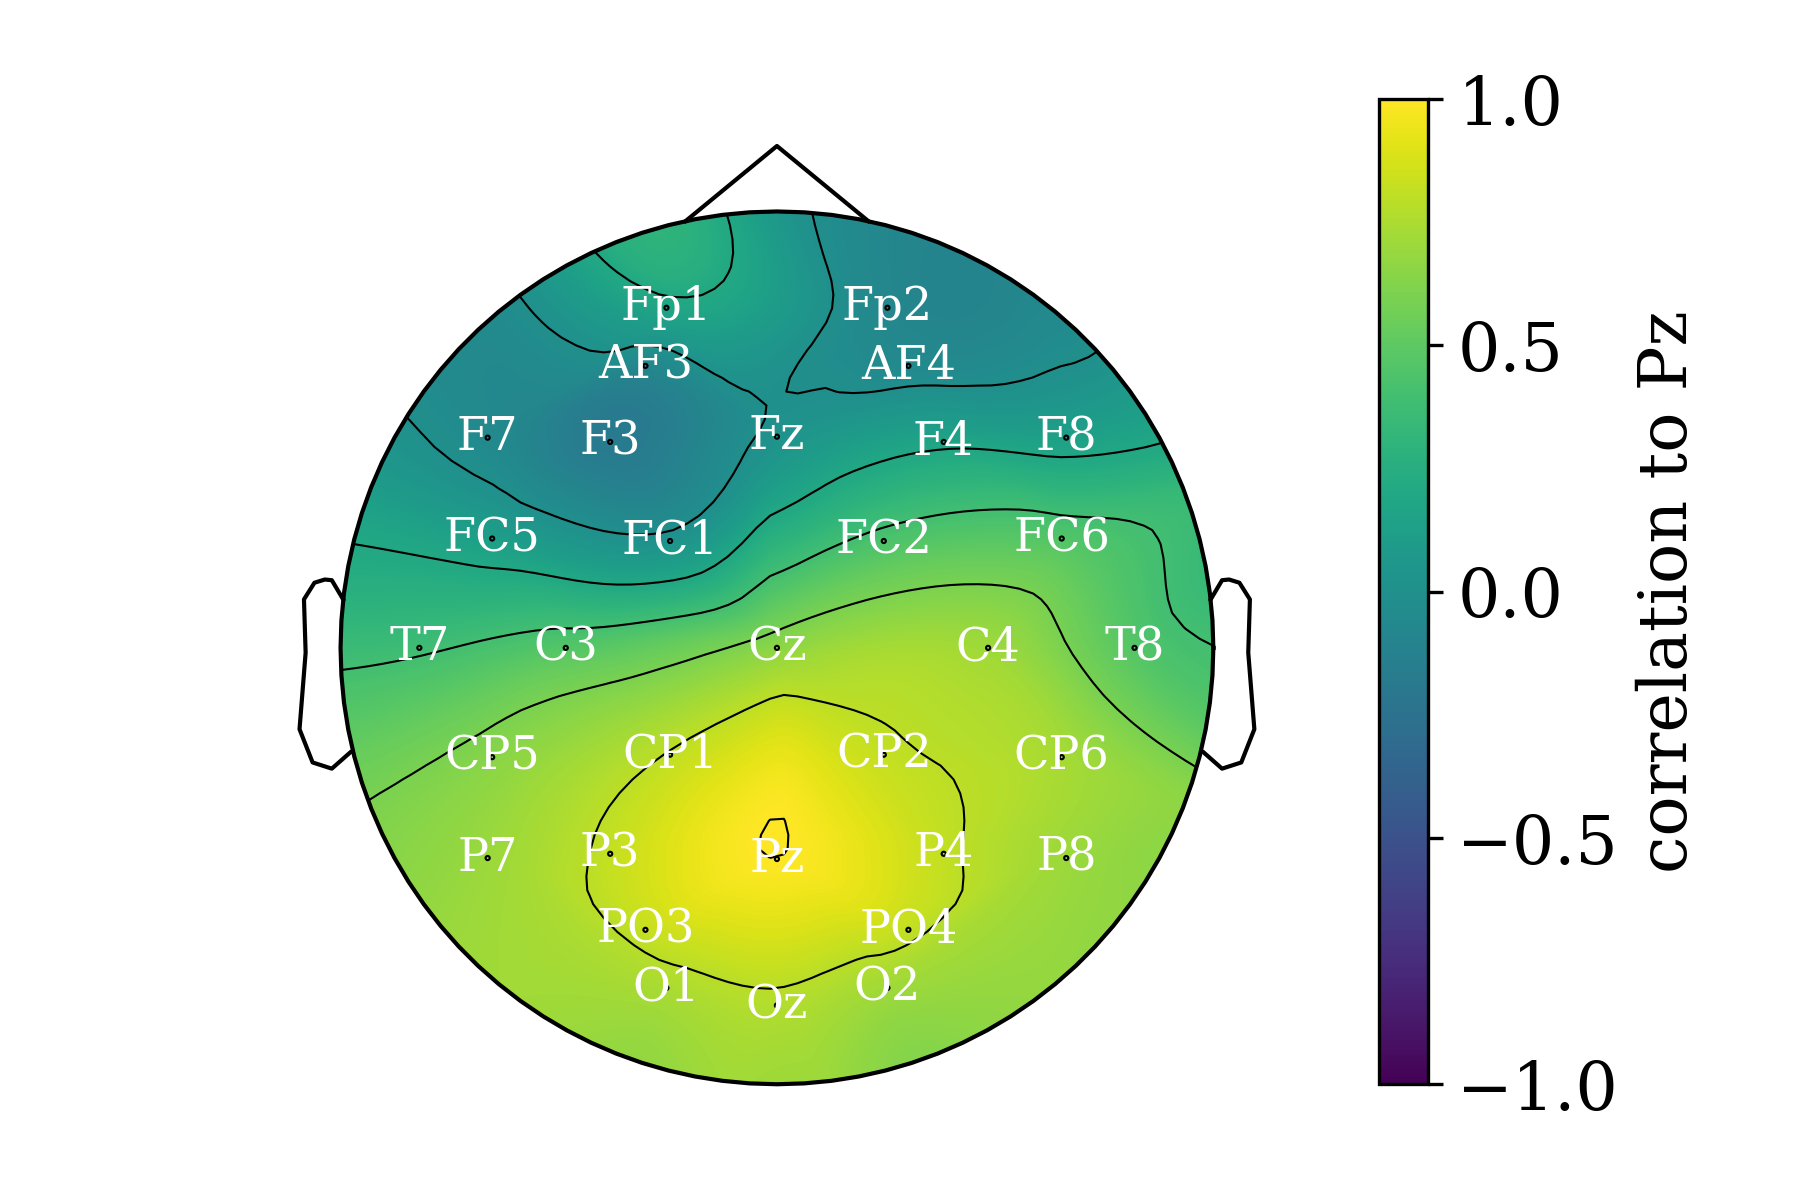
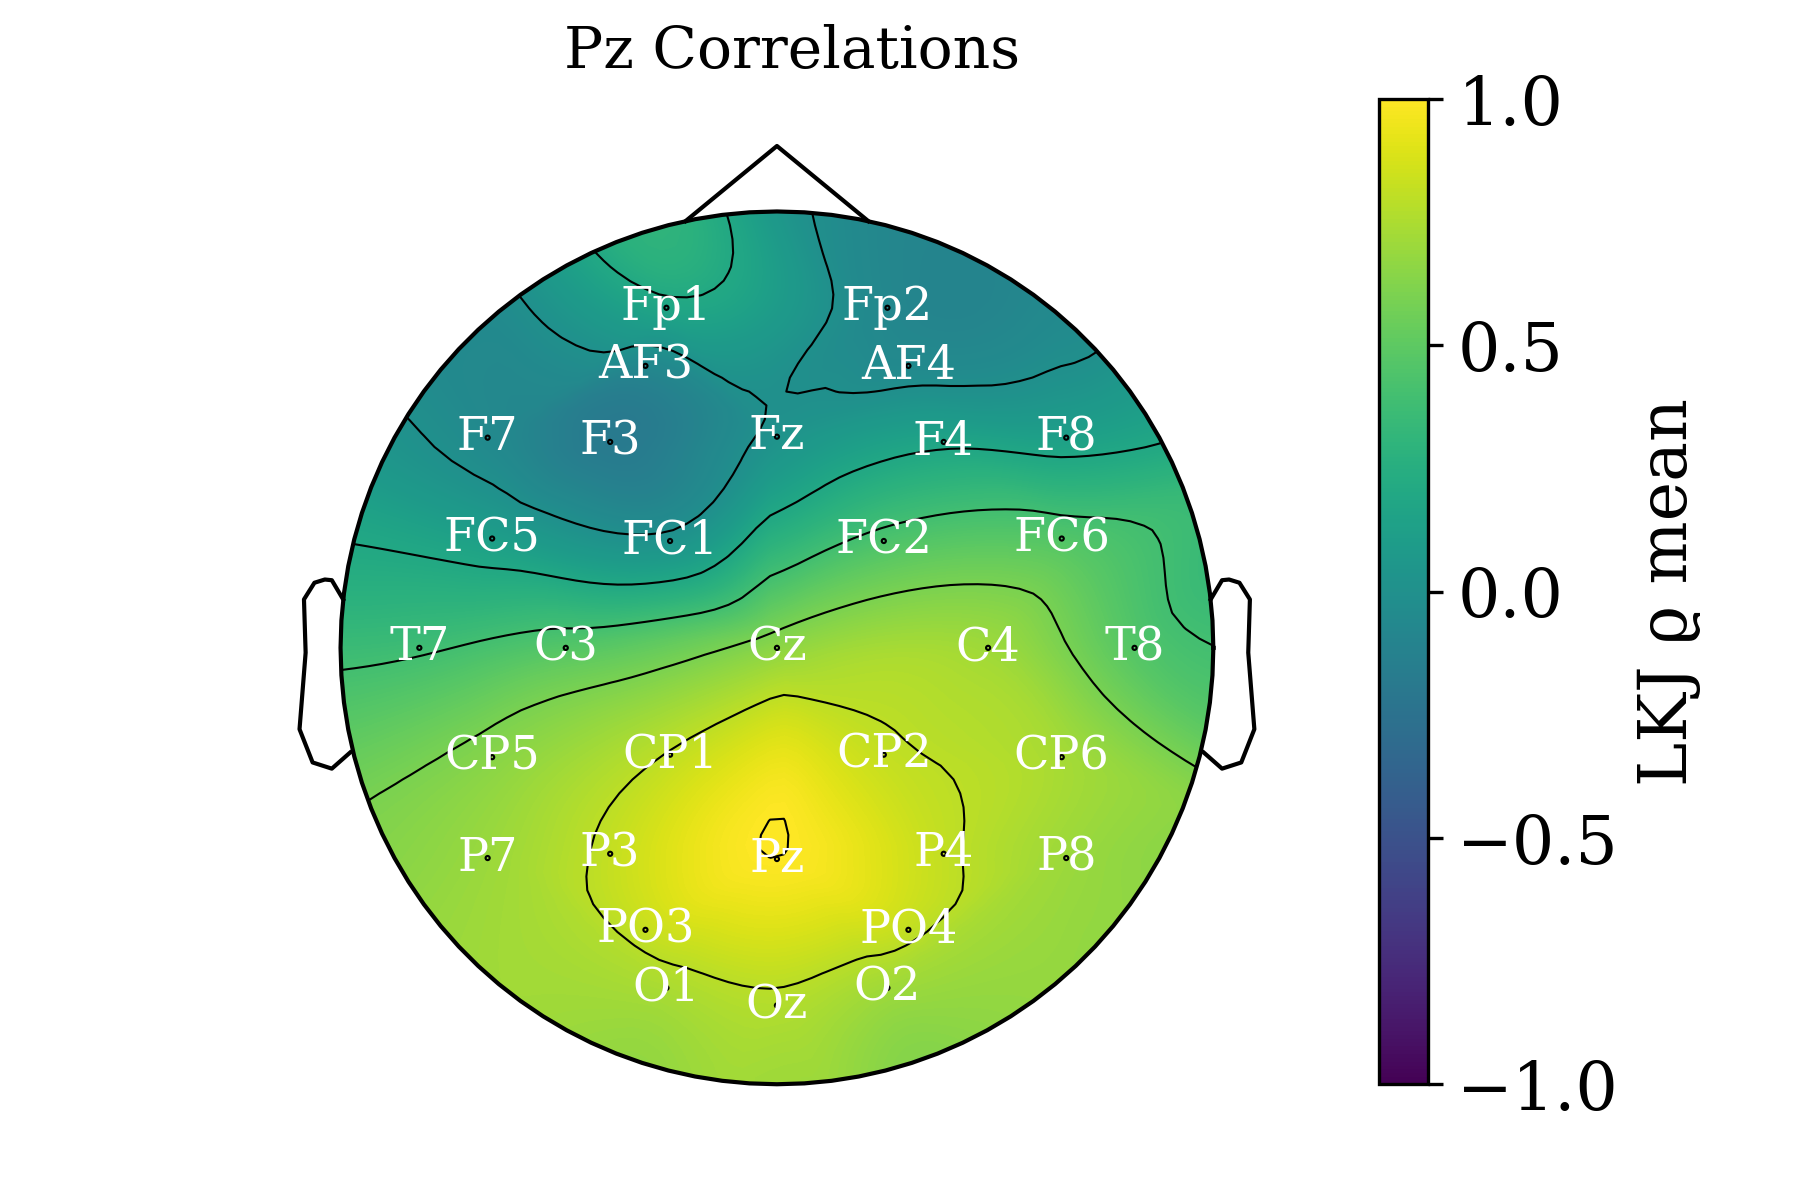
fix corpolot

Changed region(s): [[0.9022, 0.2467, 0.9644, 0.74], [0.3111, 0.0308, 0.56, 0.0617]]

diff --git a/multivar_3d_all_conditions.py b/multivar_3d_all_conditions.py
@@ -14,7 +14,7 @@ import theano.tensor as tt
 import pickle
 
 
-path = "D:/Git/Reading/erp_gaussian_group_condition/"
+path = "/erp_gaussian_group_condition/"
 
 #####plotting parameters
 plt.rcParams.update({'font.size': 12})
@@ -477,7 +477,8 @@ cortopo = mne.viz.plot_topomap(corr['Pz'].values, info, names=chans,
 plt.rcParams['text.color'] = "k"
 plt.rcParams.update({'font.size': 16})
 cbar = plt.colorbar(cortopo[0])
-cbar.set_label('correlation to Pz')
+cbar.set_label('LKJ ϱ mean')
+plt.suptitle("Pz Correlations", x=0.44)
 plt.tight_layout()
 plt.savefig('corrs_topo.png', dpi=300)
 plt.close()
